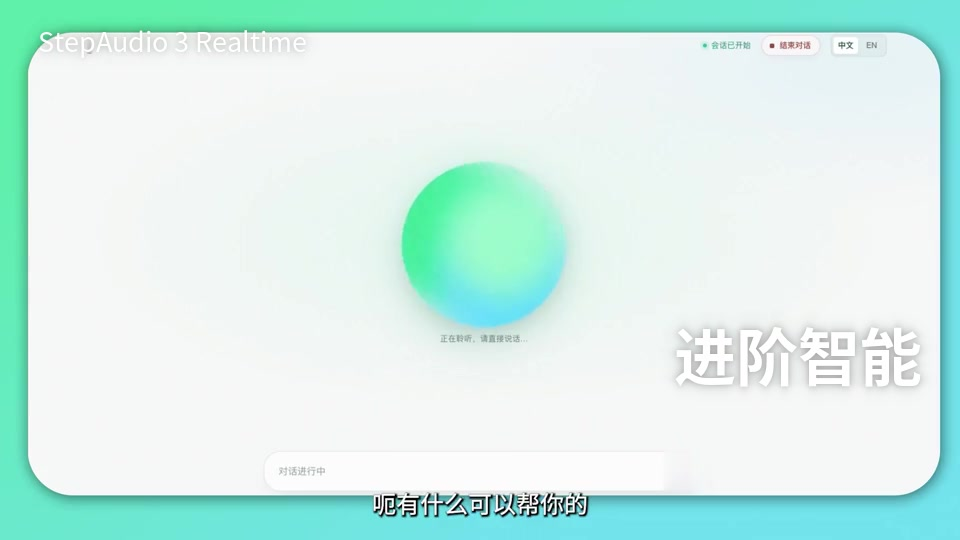
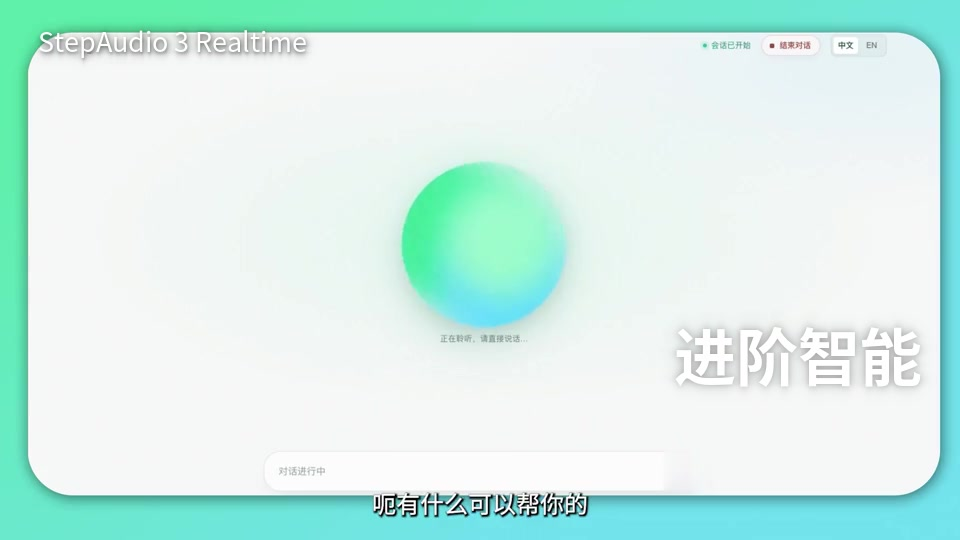
realtime: strengthen model-name shadows on Chinese covers

Changed region(s): [[0.0312, 0.0593, 0.3125, 0.1185]]

diff --git a/step-audio-3-realtime/index.html b/step-audio-3-realtime/index.html
@@ -907,9 +907,9 @@ const COPY = {
     galleryTitle:["自然交谈，","应该毫不费力。"],
     galleryLede:"聊起日常小事，它接话自然、语气松弛；话题热起来，你也可以随时附和、补充或打断。极低的响应延迟和丝滑的全双工交互，让每一次停顿、接话和话轮转换都自然流畅，仿佛在和真人交谈。",
     galleryDemos:[
-      {no:"01",src:"assets/demo/realtime-01-1080.mp4?v=20260914-hd1",mobileSrc:"assets/demo/realtime-01.mp4?v=20260914-1",poster:"assets/demo/realtime-01-cover.jpg?v=20260914-top1",t:"自然对话 · 中文双人",d:"多人交谈中的自然接话与低延迟响应。"},
+      {no:"01",src:"assets/demo/realtime-01-1080.mp4?v=20260914-hd1",mobileSrc:"assets/demo/realtime-01.mp4?v=20260914-1",poster:"assets/demo/realtime-01-cover.jpg?v=20260914-topshadow1",t:"自然对话 · 中文双人",d:"多人交谈中的自然接话与低延迟响应。"},
       {no:"02",src:"assets/demo/realtime-02-1080.mp4?v=20260914-hd2",mobileSrc:"assets/demo/realtime-02.mp4?v=20260914-2",poster:"assets/demo/realtime-02-cover.jpg?v=20260914-top2",t:"自然对话 · 英文多人",d:"多人交流中的自然节奏与自由接话。"},
-      {no:"03",src:"assets/demo/realtime-03-1080.mp4?v=20260914-hd3",mobileSrc:"assets/demo/realtime-03.mp4?v=20260914-3",poster:"assets/demo/realtime-03-cover.jpg?v=20260914-top3",t:"实时对话 · 中文交互",d:"实时语音交互中的回应与话轮衔接。"},
+      {no:"03",src:"assets/demo/realtime-03-1080.mp4?v=20260914-hd3",mobileSrc:"assets/demo/realtime-03.mp4?v=20260914-3",poster:"assets/demo/realtime-03-cover.jpg?v=20260914-topshadow3",t:"实时对话 · 中文交互",d:"实时语音交互中的回应与话轮衔接。"},
       {no:"04",src:"assets/demo/realtime-04-1080.mp4?v=20260914-hd4",mobileSrc:"assets/demo/realtime-04.mp4?v=20260914-4",poster:"assets/demo/realtime-04-cover.jpg?v=20260914-top4",t:"实时对话 · 英文演示",d:"自然表达、及时回应与顺畅交流。"},
     ],
     benchmarkKicker:"模型评测",
@@ -951,9 +951,9 @@ const COPY = {
     galleryLede:"In everyday conversation, it picks up naturally and responds with a relaxed, human cadence. When the exchange gets lively, you can chime in, add a thought, or interrupt whenever you want. Extremely low latency and smooth full-duplex interaction make every pause, response, and turn feel fluid and natural, more like talking with another person.",
     galleryDemos:[
       {no:"01",src:"assets/demo/realtime-02-1080.mp4?v=20260914-hd2",mobileSrc:"assets/demo/realtime-02.mp4?v=20260914-2",poster:"assets/demo/realtime-02-cover.jpg?v=20260914-top2",t:"Natural conversation · Group talk",d:"A relaxed rhythm and free-flowing exchange between several speakers."},
-      {no:"02",src:"assets/demo/realtime-01-1080.mp4?v=20260914-hd1",mobileSrc:"assets/demo/realtime-01.mp4?v=20260914-1",poster:"assets/demo/realtime-01-cover.jpg?v=20260914-top1",t:"Natural conversation · Two speakers",d:"Natural turn-taking and low-latency response in a shared conversation."},
+      {no:"02",src:"assets/demo/realtime-01-1080.mp4?v=20260914-hd1",mobileSrc:"assets/demo/realtime-01.mp4?v=20260914-1",poster:"assets/demo/realtime-01-cover.jpg?v=20260914-topshadow1",t:"Natural conversation · Two speakers",d:"Natural turn-taking and low-latency response in a shared conversation."},
       {no:"03",src:"assets/demo/realtime-04-1080.mp4?v=20260914-hd4",mobileSrc:"assets/demo/realtime-04.mp4?v=20260914-4",poster:"assets/demo/realtime-04-cover.jpg?v=20260914-top4",t:"Live conversation · English demo",d:"Natural delivery, timely responses, and an easy-flowing exchange."},
-      {no:"04",src:"assets/demo/realtime-03-1080.mp4?v=20260914-hd3",mobileSrc:"assets/demo/realtime-03.mp4?v=20260914-3",poster:"assets/demo/realtime-03-cover.jpg?v=20260914-top3",t:"Live conversation · Chinese demo",d:"Responsive voice interaction with smooth turn-taking."},
+      {no:"04",src:"assets/demo/realtime-03-1080.mp4?v=20260914-hd3",mobileSrc:"assets/demo/realtime-03.mp4?v=20260914-3",poster:"assets/demo/realtime-03-cover.jpg?v=20260914-topshadow3",t:"Live conversation · Chinese demo",d:"Responsive voice interaction with smooth turn-taking."},
     ],
     benchmarkKicker:"Model evaluation",
     benchmarkTitle:["From understanding to live collaboration,","the core capabilities on one canvas."],
